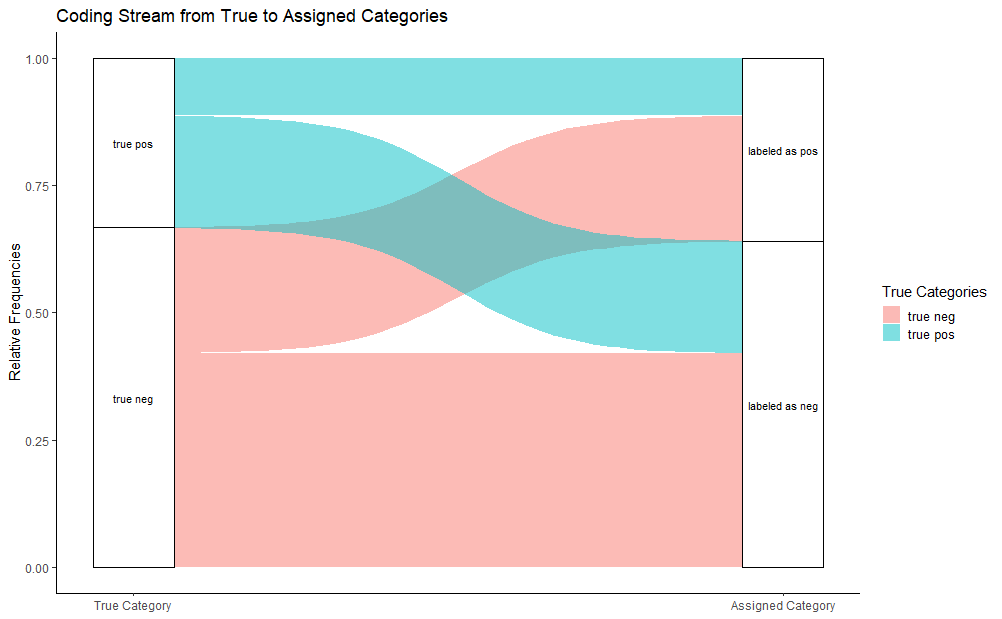
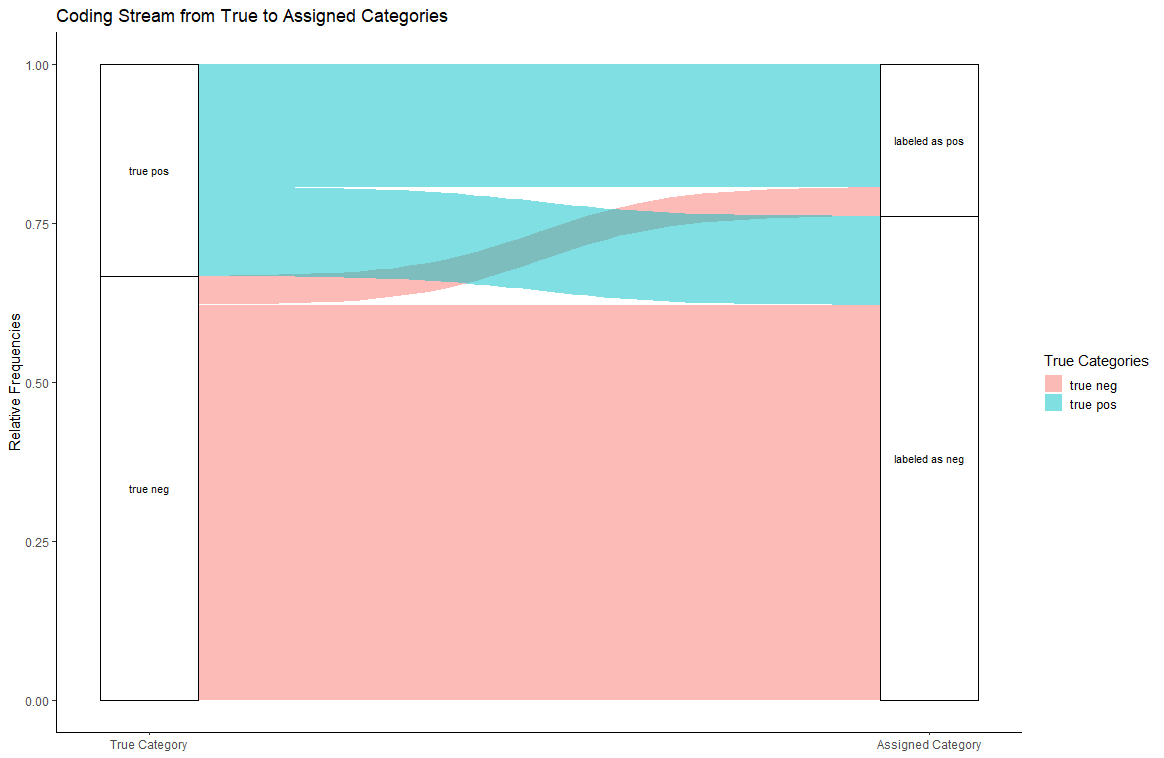
Updated Documentation

diff --git a/NEWS.md b/NEWS.md
@@ -1,11 +1,14 @@
-# aifeducation 0.2.1.9002
+# aifeducation 0.2.1.9003
 
 -   Added DeBERTa and Funnel-Transformer support
+-   Fixed issues for installing the required python packages
 -   Fixed issues in training transformer models
+-   Fixed an issue for calculating the final iota values if pseudo labeling is active
 -   Added support for PyTorch and Tensorflow for all transformer models
--   Added support for PyTorch for classifier objects
+-   Added support for PyTorch for classifier objects via keras 3 in the future
 -   Removed augmentation of vocabulary from training BERT models
 -   Updated documentation
+-   changed the reported values for kappa
 
 # aifeducation 0.2.0
 
